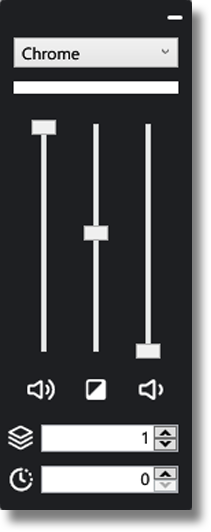
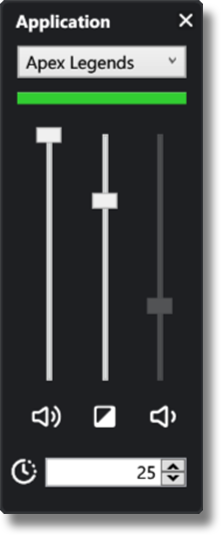
Updated images

Changed region(s): [[0.0, 0.0, 0.8815, 0.9624], [0.91, 0.0, 0.9384, 0.9624]]

diff --git a/index.html b/index.html
@@ -306,11 +306,11 @@
                                     <div class="card right-pane">
                                         <div class="card-body">
                                             <div class="card-icon">
-                                                <i class="fas fa-layer-group"></i>
+                                                <i class="fas fa-times"></i>
                                             </div>
                                             <div class="text-wrapper">
-                                                <h4 class="card-title">Source Layer</h4>
-                                                <p>Configure the rank of individual sources. These ranks determine how sources affect each other</p>
+                                                <h4 class="card-title">Close</h4>
+                                                <p>Removes the added audio or microphone source from the list of active sources</p>
                                             </div>
                                         </div>
                                     </div>
